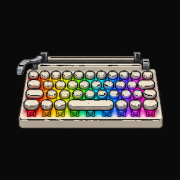
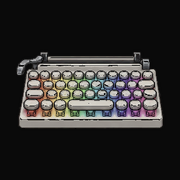
Only the hero moves: a muted static typewriter everywhere else
Lingz: the animated topbar mark and the hero were competing for attention.
The hero keeps the animated rainbow typewriter; every other spot now uses
one muted still, site/typewriter-mark.png (first frame at 40% saturation,
176px, palette PNG, 11 KB):

- the topbar mark (was the animated webp)
- favicon.png and apple-touch-icon.png (regenerated from the muted frame)
- the share card (was the emoji; re-rendered, ?v=4)
- the server's /welcome set-password page and the invite/recovery emails
  (were the emoji; they load the PNG from agentkeyboard.com, PNG because
  email clients don't all take WebP)

Icon cache params bumped. CLAUDE.md and the email-templates README say where
each version lives. The widget keeps the emoji.

diff --git a/site/index.html b/site/index.html
@@ -15,15 +15,15 @@
 <title>Agent Keyboard — Change your app by talking to it</title>
 <meta name="description" content="One script tag on your app. Ask for a change — typed, dictated, or photographed — and your own server runs a real Claude Code session that edits your codebase and commits it, right where you're looking. Open source, self-hosted, your keys, MIT." />
 
-<link rel="icon" type="image/png" sizes="64x64" href="/favicon.png?v=4" />
-<link rel="apple-touch-icon" href="/apple-touch-icon.png?v=5" />
+<link rel="icon" type="image/png" sizes="64x64" href="/favicon.png?v=5" />
+<link rel="apple-touch-icon" href="/apple-touch-icon.png?v=6" />
 
 <meta property="og:type" content="website" />
 <meta property="og:title" content="Agent Keyboard" />
 <meta property="og:description" content="Ask for a change, right where you're looking. A real Claude Code session edits your codebase and commits it. Open source, self-hosted, your keys, MIT." />
 <meta property="og:url" content="https://agentkeyboard.com/" />
-<meta property="og:image" content="https://agentkeyboard.com/og-twitter-card.jpg?v=3" />
-<meta property="og:image:secure_url" content="https://agentkeyboard.com/og-twitter-card.jpg?v=3" />
+<meta property="og:image" content="https://agentkeyboard.com/og-twitter-card.jpg?v=4" />
+<meta property="og:image:secure_url" content="https://agentkeyboard.com/og-twitter-card.jpg?v=4" />
 <meta property="og:image:type" content="image/jpeg" />
 <meta property="og:image:width" content="1200" />
 <meta property="og:image:height" content="630" />
@@ -31,7 +31,7 @@
 <meta name="twitter:card" content="summary_large_image" />
 <meta name="twitter:title" content="Agent Keyboard" />
 <meta name="twitter:description" content="Ask for a change, right where you're looking. A real Claude Code session edits your codebase and commits it. Open source, self-hosted, your keys, MIT." />
-<meta name="twitter:image" content="https://agentkeyboard.com/og-twitter-card.jpg?v=3" />
+<meta name="twitter:image" content="https://agentkeyboard.com/og-twitter-card.jpg?v=4" />
 <meta name="twitter:image:alt" content="Agent Keyboard prompt bar editing a live app" />
 
 <link rel="preconnect" href="https://fonts.googleapis.com">
@@ -90,8 +90,8 @@ a:hover{ color:var(--amber); }
 /* ---- top bar ---- */
 .top{ display:flex; align-items:center; justify-content:space-between; gap:14px; padding:22px 0 8px; }
 .brand{ display:flex; align-items:center; gap:11px; }
-.brand .mark{ display:block; line-height:0; filter:drop-shadow(0 2px 8px rgba(255,134,60,.45)); }
-.brand .mark img{ display:block; width:41px; height:auto; }
+/* the muted still: only the hero moves */
+.brand .mark{ display:block; width:41px; height:auto; }
 .brand b{ font-weight:600; font-size:15px; letter-spacing:.01em; }
 .top-right{ display:flex; align-items:center; gap:16px; }
 .gh-pill{
@@ -301,7 +301,7 @@ footer .meta a:hover{ color:var(--amber); }
 
 <div class="wrap">
   <div class="top">
-    <div class="brand"><picture class="mark" aria-hidden="true"><source srcset="typewriter-still.webp" media="(prefers-reduced-motion: reduce)"><img src="typewriter.webp" width="41" height="22" alt=""></picture><b>Agent Keyboard</b></div>
+    <div class="brand"><img class="mark" src="typewriter-mark.png" width="41" height="22" alt=""><b>Agent Keyboard</b></div>
     <div class="top-right">
       <a class="gh-pill" href="https://github.com/vibhasjain/agent-keyboard">
         <svg viewBox="0 0 16 16" fill="currentColor" aria-hidden="true"><path d="M8 0C3.58 0 0 3.58 0 8c0 3.54 2.29 6.53 5.47 7.59.4.07.55-.17.55-.38 0-.19-.01-.82-.01-1.49-2.01.37-2.53-.49-2.69-.94-.09-.23-.48-.94-.82-1.13-.28-.15-.68-.52-.01-.53.63-.01 1.08.58 1.23.82.72 1.21 1.87.87 2.33.66.07-.52.28-.87.51-1.07-1.78-.2-3.64-.89-3.64-3.95 0-.87.31-1.59.82-2.15-.08-.2-.36-1.02.08-2.12 0 0 .67-.21 2.2.82.64-.18 1.32-.27 2-.27.68 0 1.36.09 2 .27 1.53-1.04 2.2-.82 2.2-.82.44 1.1.16 1.92.08 2.12.51.56.82 1.27.82 2.15 0 3.07-1.87 3.75-3.65 3.95.29.25.54.73.54 1.48 0 1.07-.01 1.93-.01 2.2 0 .21.15.46.55.38A8.013 8.013 0 0016 8c0-4.42-3.58-8-8-8z"></path></svg>

diff --git a/server/src/index.ts b/server/src/index.ts
@@ -222,7 +222,7 @@ app.get("/welcome", (_req, res) => {
   html,body{margin:0;background:var(--bg);color:var(--ink);font:15px/1.6 ui-monospace,SFMono-Regular,Menlo,monospace}
   main{max-width:420px;margin:18vh auto 0;padding:0 20px}
   h1{font-size:17px;font-weight:600;margin:0 0 6px}
-  h1 .k{margin-right:8px}
+  h1 .k{margin-right:10px;vertical-align:-3px}
   p{color:var(--ink2);margin:0 0 22px;font-size:13.5px}
   label{display:block;color:var(--ink3);font-size:11px;letter-spacing:.06em;margin:14px 0 4px}
   input{width:100%;box-sizing:border-box;background:transparent;border:none;border-bottom:1px solid var(--rule);color:var(--ink);font:inherit;padding:6px 2px;outline:none}
@@ -233,7 +233,7 @@ app.get("/welcome", (_req, res) => {
   .msg.err{color:var(--err)} .msg.ok{color:var(--ok)}
 </style></head>
 <body><main>
-  <h1><span class="k">⌨</span>Agent Keyboard</h1>
+  <h1><img class="k" src="https://agentkeyboard.com/typewriter-mark.png" width="41" height="22" alt="">Agent Keyboard</h1>
   <p>You've been invited. Set a password to finish — then sign in from the bar on the site.</p>
   <form id="f">
     <label for="pw">new password</label>

diff --git a/server/email-templates/invite.html b/server/email-templates/invite.html
@@ -20,7 +20,7 @@
           <!-- Wordmark -->
           <tr>
             <td align="center" style="padding:0 0 30px;">
-              <div style="font-size:44px;line-height:1;">&#9000;&#65039;</div>
+              <img src="https://agentkeyboard.com/typewriter-mark.png" width="88" height="48" alt="" style="display:block;margin:0 auto;border:0;outline:none;">
               <div style="font-family:Georgia,'Times New Roman',serif;font-size:30px;color:#f5f1ea;padding-top:14px;letter-spacing:.01em;">
                 Agent Keyboard
               </div>

diff --git a/server/email-templates/recovery.html b/server/email-templates/recovery.html
@@ -18,7 +18,7 @@
 
           <tr>
             <td align="center" style="padding:0 0 30px;">
-              <div style="font-size:44px;line-height:1;">&#9000;&#65039;</div>
+              <img src="https://agentkeyboard.com/typewriter-mark.png" width="88" height="48" alt="" style="display:block;margin:0 auto;border:0;outline:none;">
               <div style="font-family:Georgia,'Times New Roman',serif;font-size:30px;color:#f5f1ea;padding-top:14px;letter-spacing:.01em;">
                 Agent Keyboard
               </div>

diff --git a/CLAUDE.md b/CLAUDE.md
@@ -121,10 +121,12 @@ owner's site ──<script src="…/widget.js" data-site="mysite">──┐
 done = green, error = `#f97066` (red, outside the palette, used sparingly).
 
 **Brand mark:** on the site, `site/typewriter.webp`, an animated pixel-art typewriter whose keys run
-a rainbow wave (adopted 2026-09-25 at Lingz's request). It's in the hero (with the amber drop-shadow
-glow and breathing animation) and the topbar. `typewriter-still.webp` is served under reduced motion,
-and its first frame is the favicon (`favicon.png`) and `apple-touch-icon.png`. The widget and the
-share card still use the keyboard emoji ⌨. The emoji is a deliberate exception to the no-emoji UI rule: it is
+a rainbow wave (adopted 2026-09-25 at Lingz's request). **Only the hero moves** (with the amber
+drop-shadow glow and breathing animation; `typewriter-still.webp` under reduced motion). Everywhere
+else uses the muted static mark `site/typewriter-mark.png` (first frame at 40% saturation), so nothing
+competes with the hero: the topbar, `favicon.png`, `apple-touch-icon.png`, the share card, the server's
+`/welcome` page and the invite/recovery emails (the last two load it from agentkeyboard.com). The
+widget still uses the keyboard emoji ⌨. The emoji is a deliberate exception to the no-emoji UI rule: it is
 the brand, chosen on purpose (owner decision 2026-07-02); the rule still bans emoji-set codepoints as
 functional UI glyphs. The retired amber orb should not come back. The widget's persistent surface is
 the corner **rectangle**, which carries one line of status and becomes the streaming pill (with the

diff --git a/server/email-templates/README.md b/server/email-templates/README.md
@@ -1,7 +1,7 @@
 # Branded auth emails
 
 Branded, email-client-safe templates for the Supabase auth emails (invite +
-password recovery). Dark card, amber button, the ⌨ mark — table layout and
+password recovery). Dark card, amber button, the muted typewriter mark (hosted at agentkeyboard.com/typewriter-mark.png) — table layout and
 inline styles only, system fonts (webfonts don't load in most clients).
 
 `{{ .ConfirmationURL }}` and `{{ .Email }}` are Supabase template variables —
